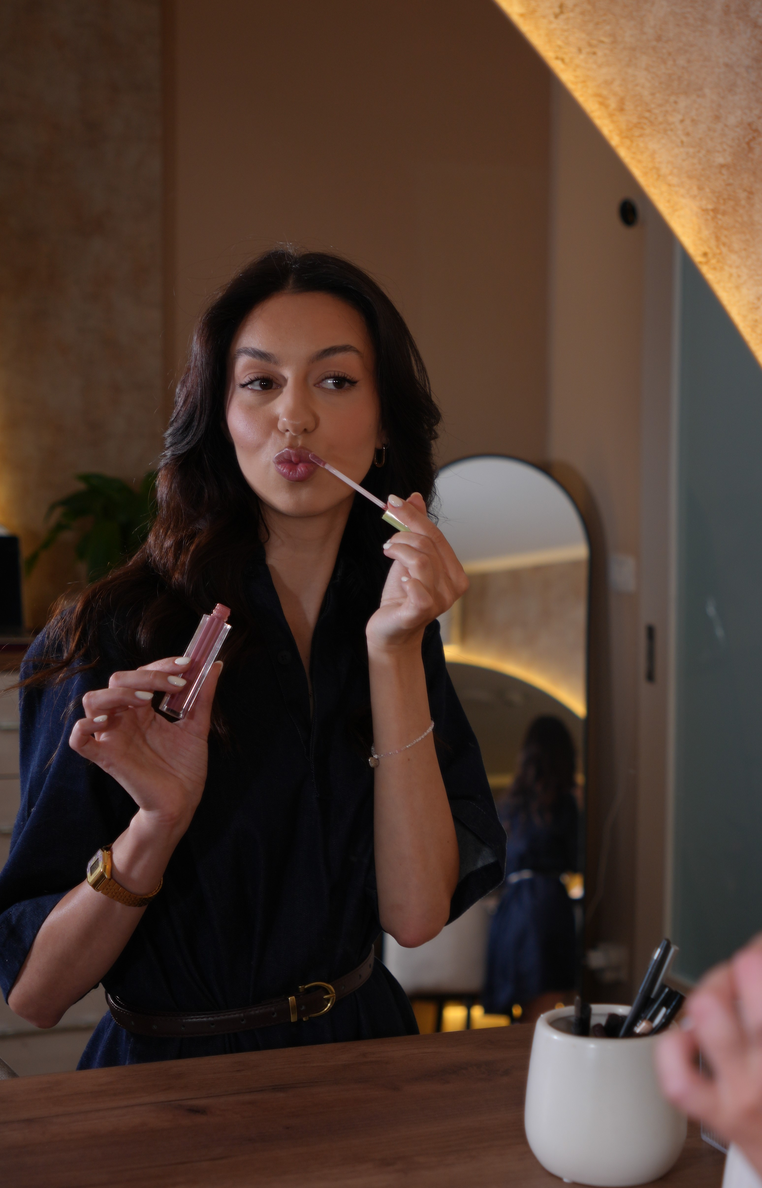
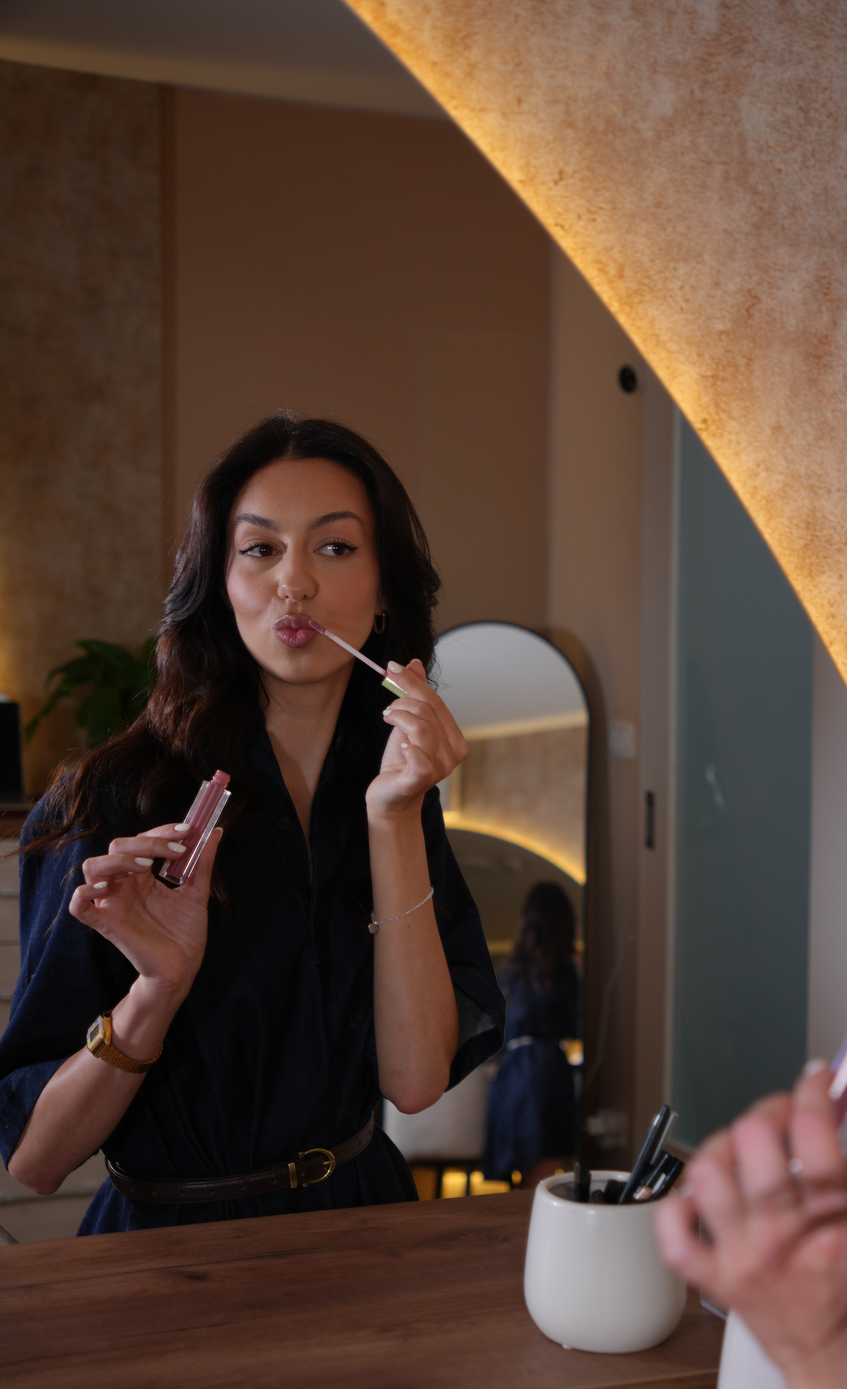
remove about us, restyle services

diff --git a/src/i18n/routes.ts b/src/i18n/routes.ts
@@ -31,9 +31,9 @@ export type SectionKey = keyof typeof sections;
 export const SECTION_CHANGE_EVENT = 'bonaca:section-change';
 
 /** Sections shown in the main navigation, in page order. */
+// 'about' is left out for now (the section is hidden); add it back after 'home' to restore it.
 export const navigationItems = [
   'home',
-  'about',
   'services',
   'education',
   'reviews',
